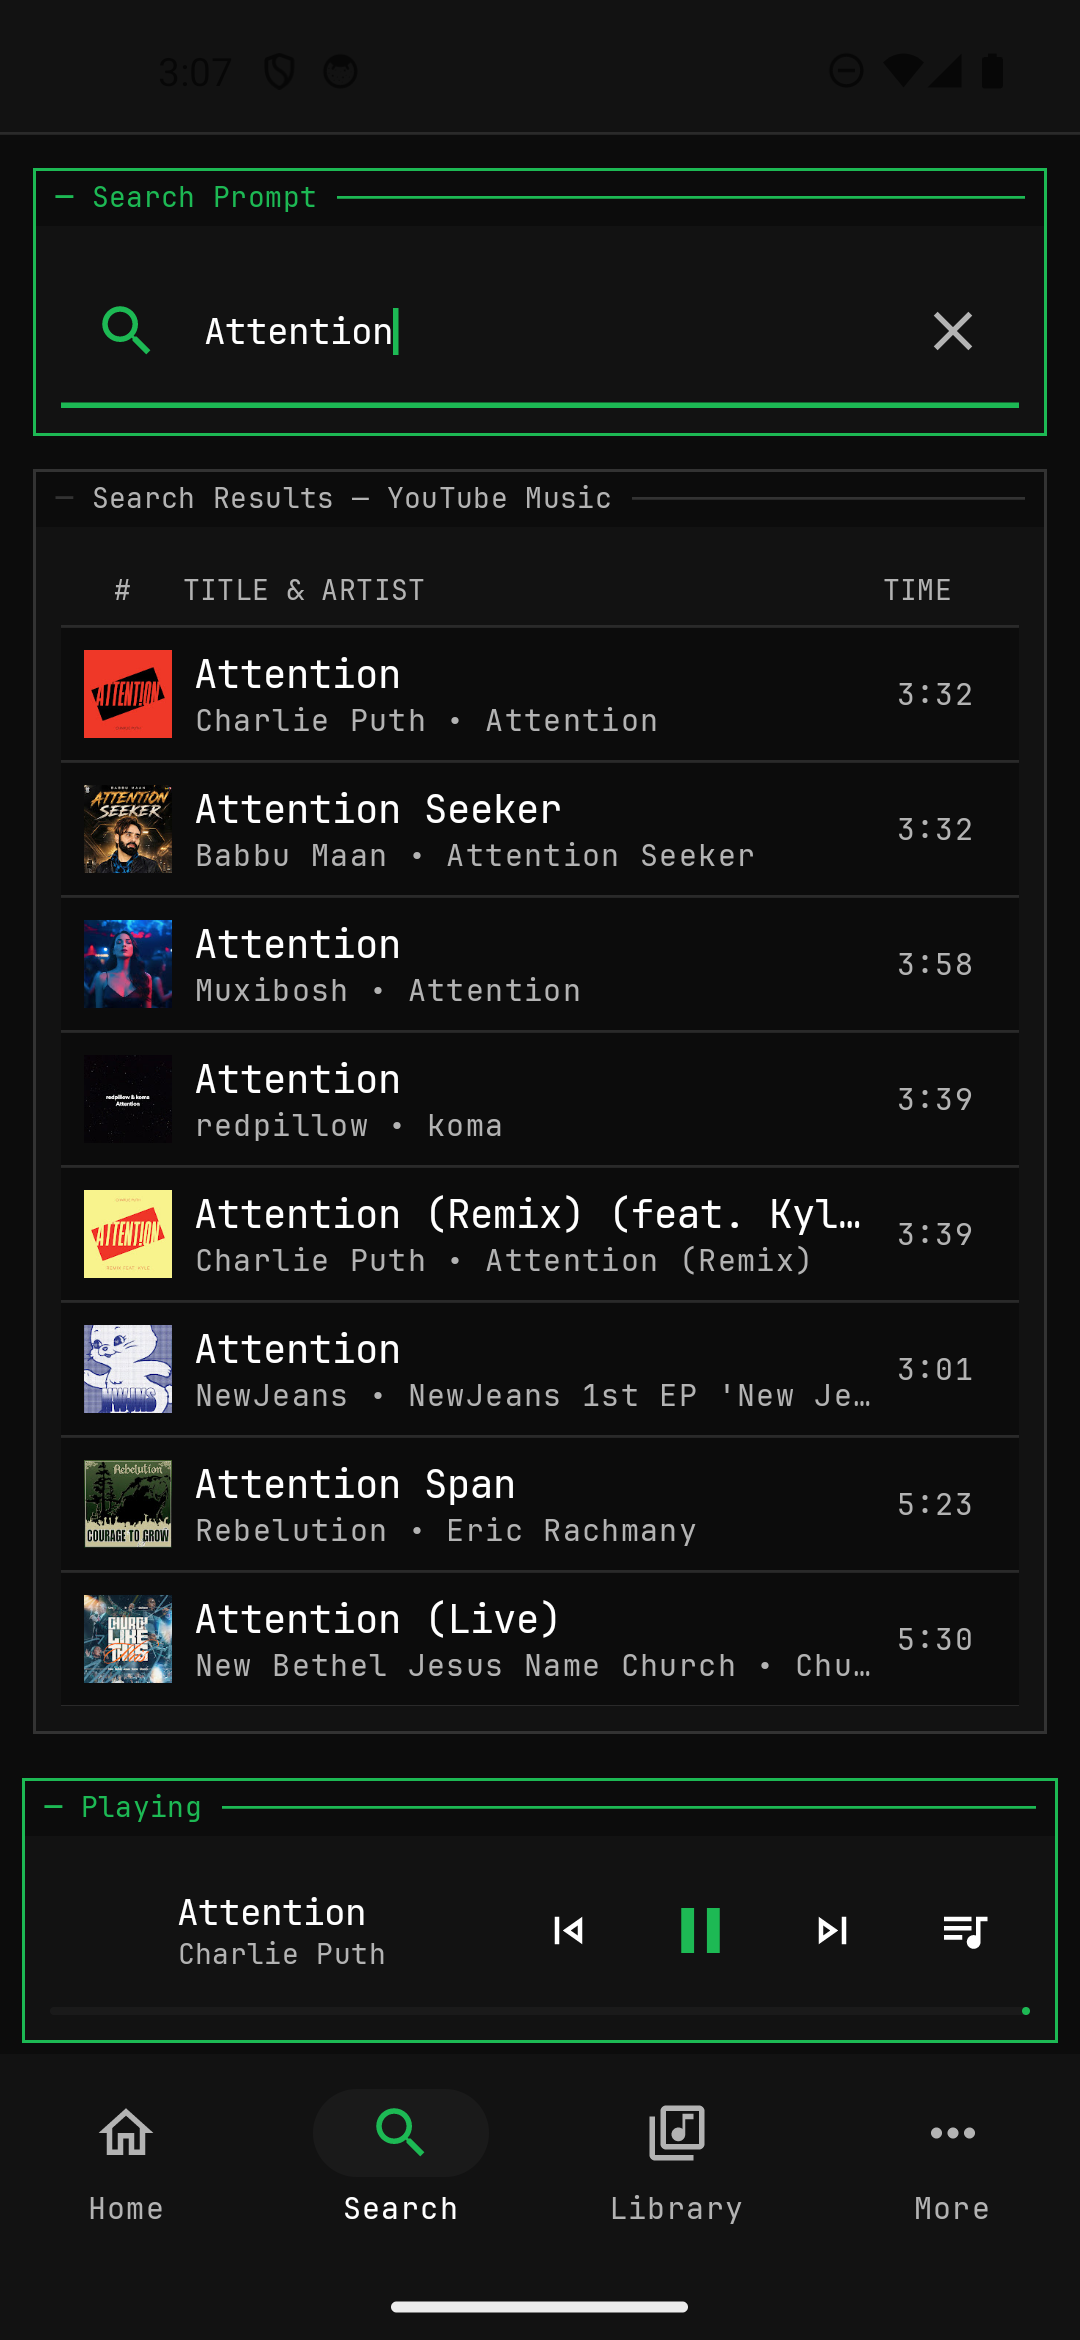
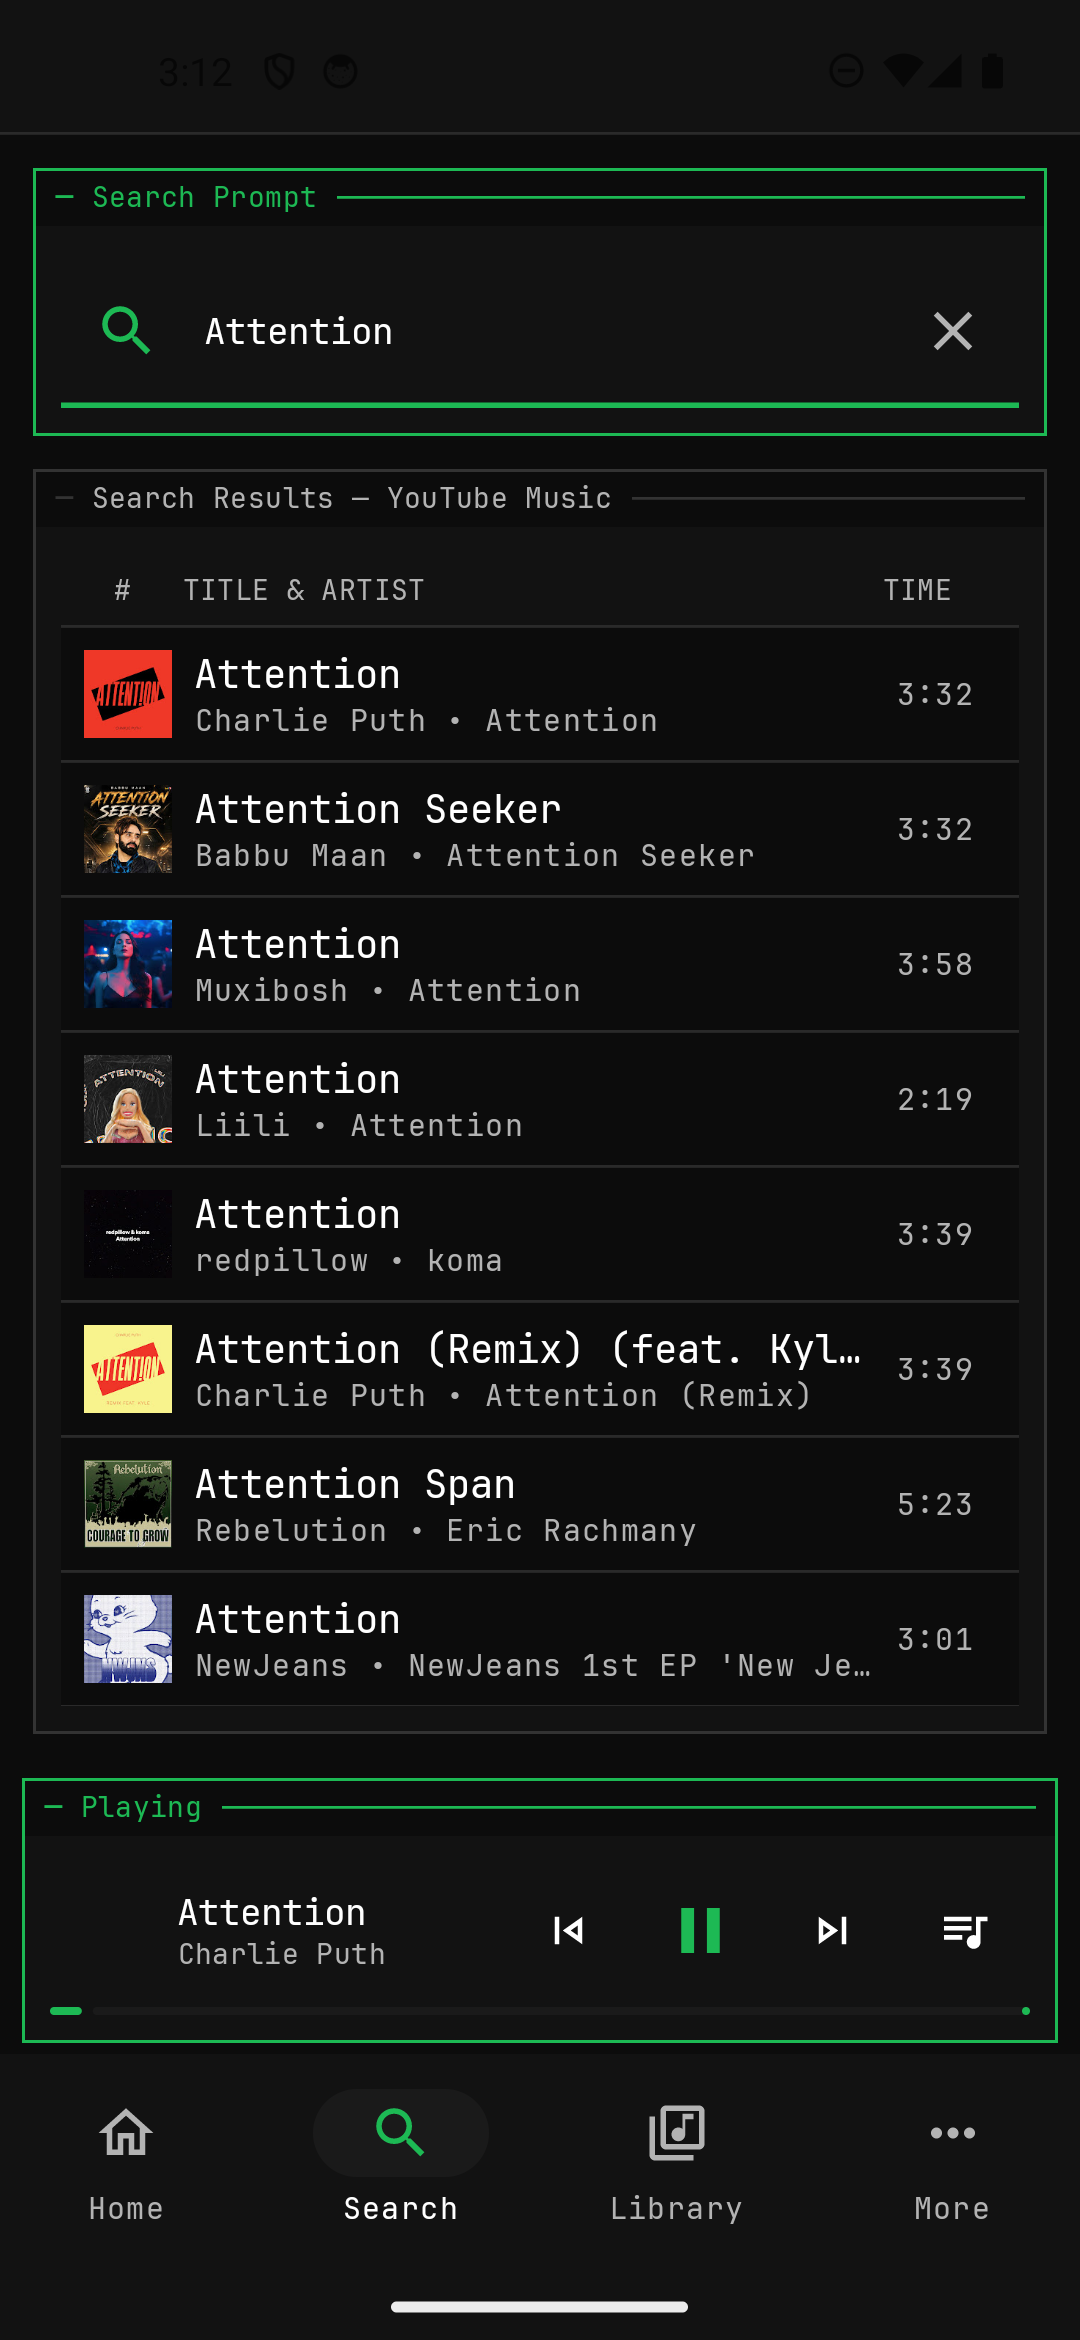
fix(playback): add periodic position ticker to update progress bar smoothly while streaming

diff --git a/app/src/main/java/com/clibeats/playback/PlayerAdapter.kt b/app/src/main/java/com/clibeats/playback/PlayerAdapter.kt
@@ -16,9 +16,15 @@ import com.clibeats.domain.model.Track
 import com.clibeats.playback.service.PlaybackService
 import com.clibeats.util.DiagnosticLogger
 import dagger.hilt.android.qualifiers.ApplicationContext
+import kotlinx.coroutines.CoroutineScope
+import kotlinx.coroutines.Dispatchers
+import kotlinx.coroutines.Job
+import kotlinx.coroutines.SupervisorJob
+import kotlinx.coroutines.delay
 import kotlinx.coroutines.flow.MutableStateFlow
 import kotlinx.coroutines.flow.StateFlow
 import kotlinx.coroutines.flow.asStateFlow
+import kotlinx.coroutines.launch
 import kotlinx.coroutines.runBlocking
 import javax.inject.Inject
 import javax.inject.Singleton
@@ -58,6 +64,24 @@ class PlayerAdapter
         val queueFlow: StateFlow<List<Track>> = _queueFlow.asStateFlow()
 
         private val trackList = mutableListOf<Track>()
+        private val scope = CoroutineScope(Dispatchers.Main + SupervisorJob())
+        private var tickerJob: Job? = null
+
+        private fun startPositionTicker() {
+            tickerJob?.cancel()
+            tickerJob =
+                scope.launch {
+                    while (player.isPlaying) {
+                        updateState()
+                        delay(POLL_INTERVAL_MS)
+                    }
+                }
+        }
+
+        private fun stopPositionTicker() {
+            tickerJob?.cancel()
+            tickerJob = null
+        }
 
         init {
             player.addListener(
@@ -65,6 +89,9 @@ class PlayerAdapter
                     override fun onIsPlayingChanged(isPlaying: Boolean) {
                         if (isPlaying) {
                             DiagnosticLogger.logMediaPlaying("player")
+                            startPositionTicker()
+                        } else {
+                            stopPositionTicker()
                         }
                         updateState()
                     }
@@ -240,5 +267,9 @@ class PlayerAdapter
                         .build(),
                 )
                 .build()
+        }
+
+        companion object {
+            private const val POLL_INTERVAL_MS = 500L
         }
     }
